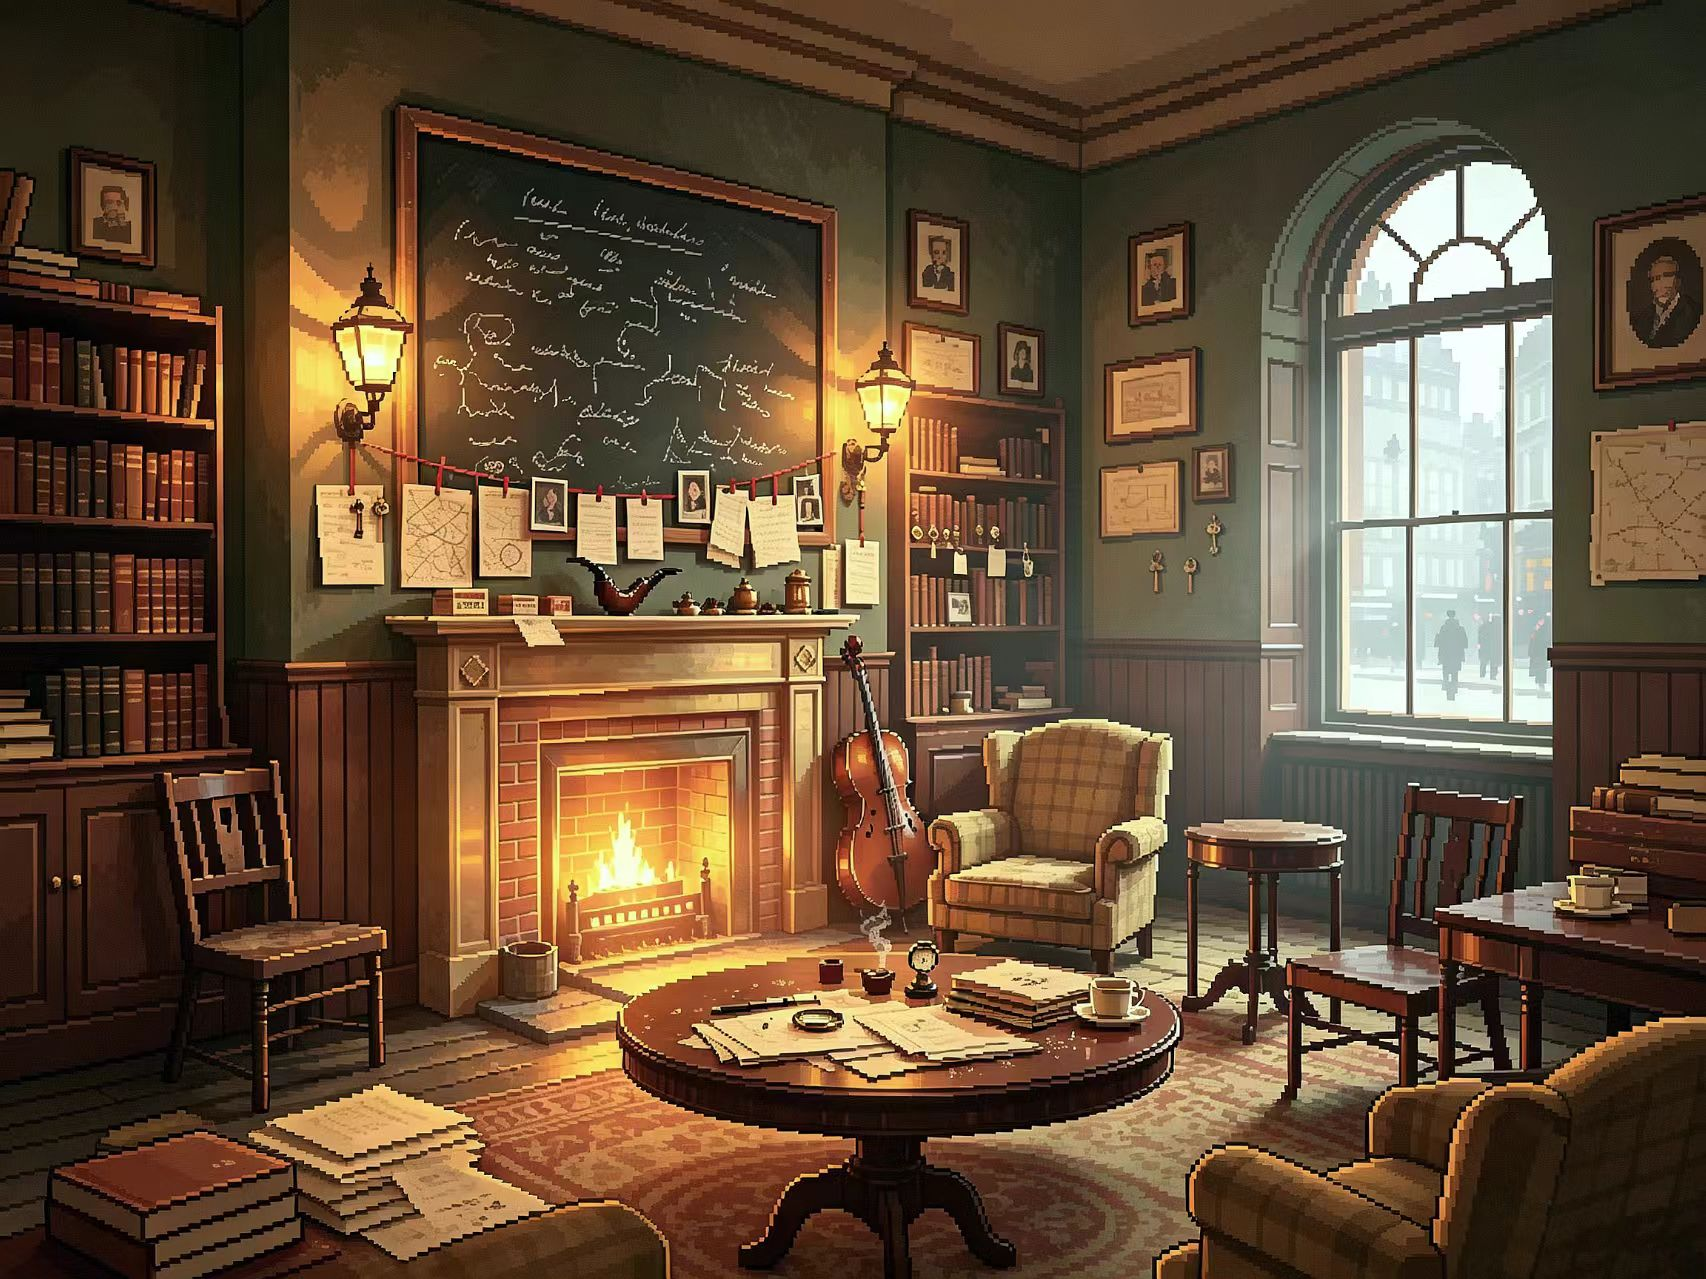
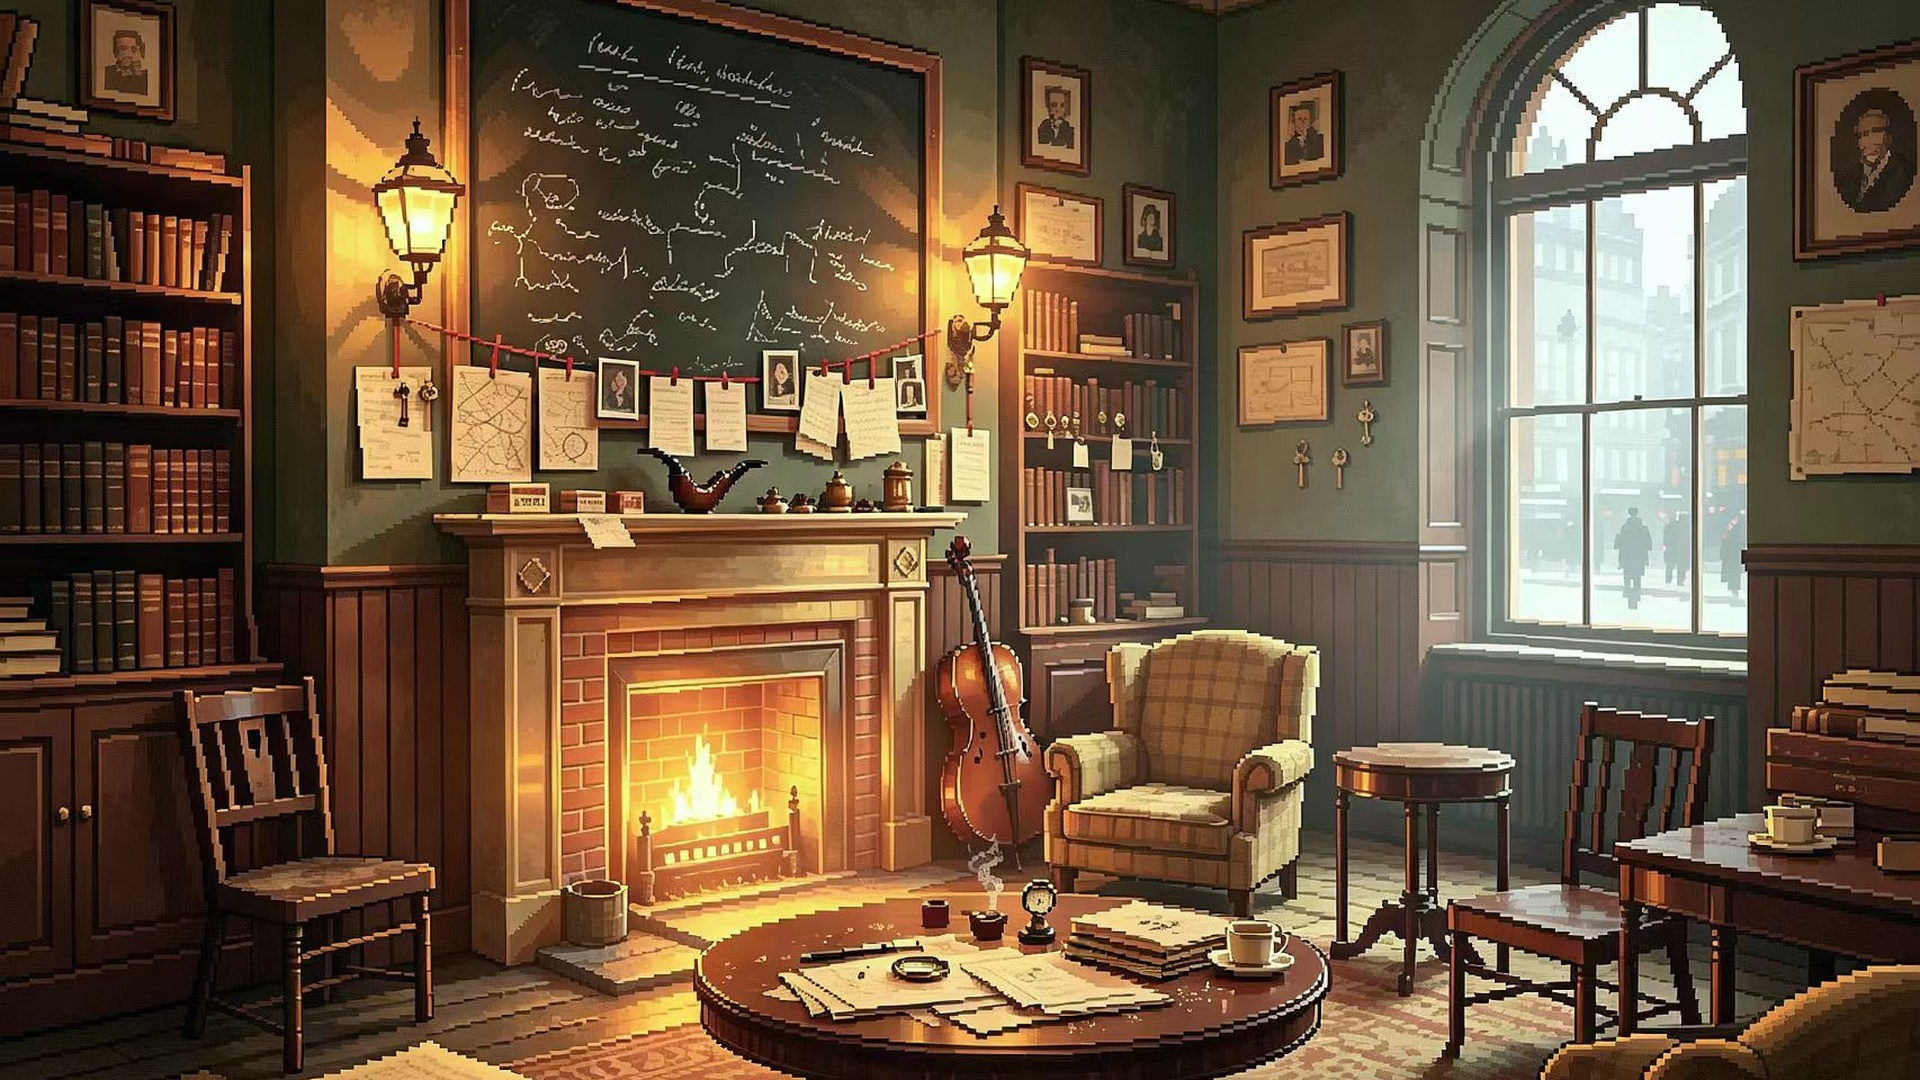
fix: 修复信使立绘渲染(expand_mode=2正方形化->IGNORE_SIZE+手动contain)、放大重定位(220x632右站位脚底不超界)，同步修对话头像/观察预览；含8-10批次(场景六对齐/baker_street放大/放大镜+blood/Web导出)

diff --git a/godot_project/web_build/index.html b/godot_project/web_build/index.html
@@ -111,7 +111,7 @@ body {
 
 		<script src="index.js"></script>
 		<script>
-const GODOT_CONFIG = {"args":[],"canvasResizePolicy":1,"emscriptenPoolSize":8,"ensureCrossOriginIsolationHeaders":true,"executable":"index","experimentalVK":false,"fileSizes":{"index.pck":52663508,"index.wasm":39509339},"focusCanvas":true,"gdextensionLibs":[],"godotPoolSize":4};
+const GODOT_CONFIG = {"args":[],"canvasResizePolicy":1,"emscriptenPoolSize":8,"ensureCrossOriginIsolationHeaders":true,"executable":"index","mainPack":"index.pck?v=20260811-141114","experimentalVK":false,"fileSizes":{"index.pck":90444156,"index.wasm":39509339},"focusCanvas":true,"gdextensionLibs":[],"godotPoolSize":4};
 const GODOT_THREADS_ENABLED = false;
 const engine = new Engine(GODOT_CONFIG);
 
